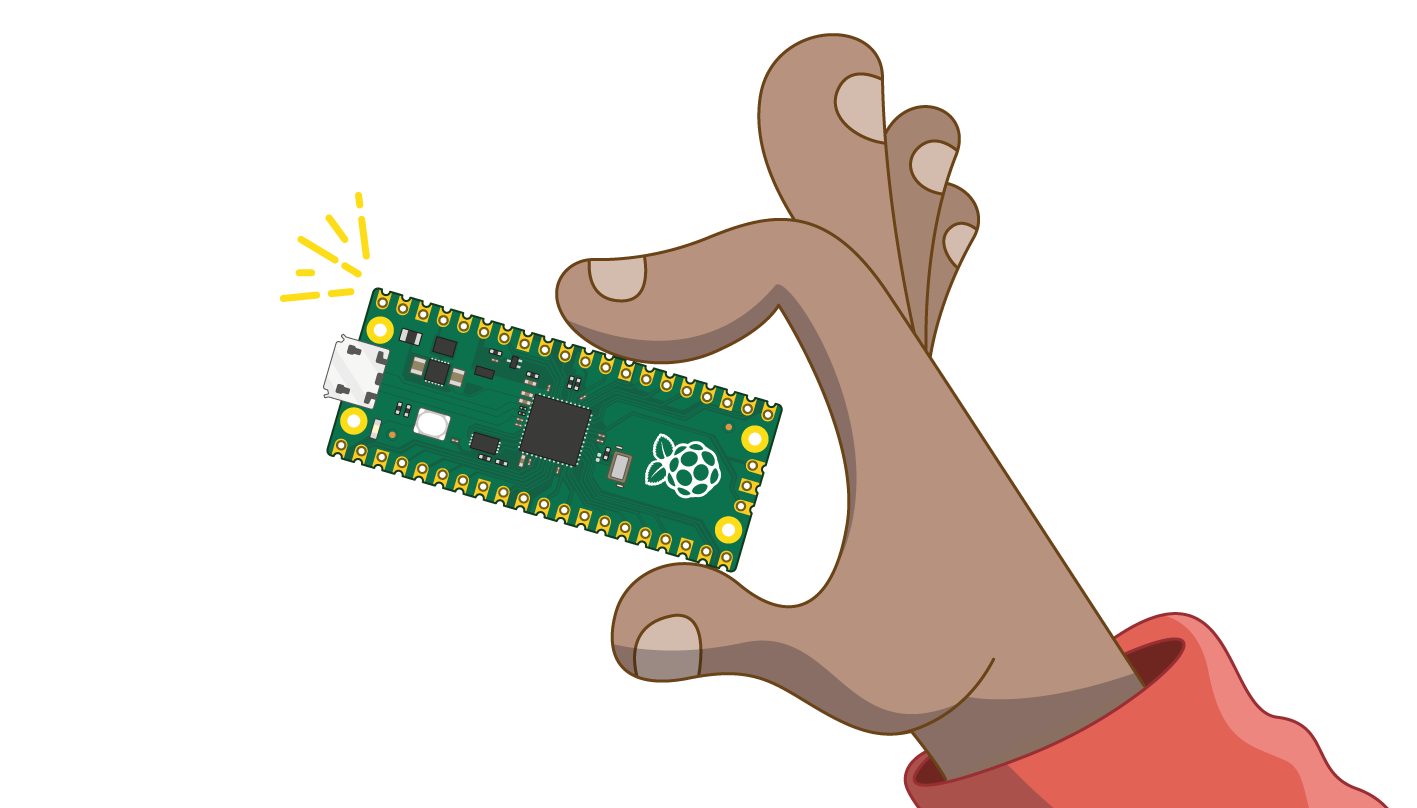
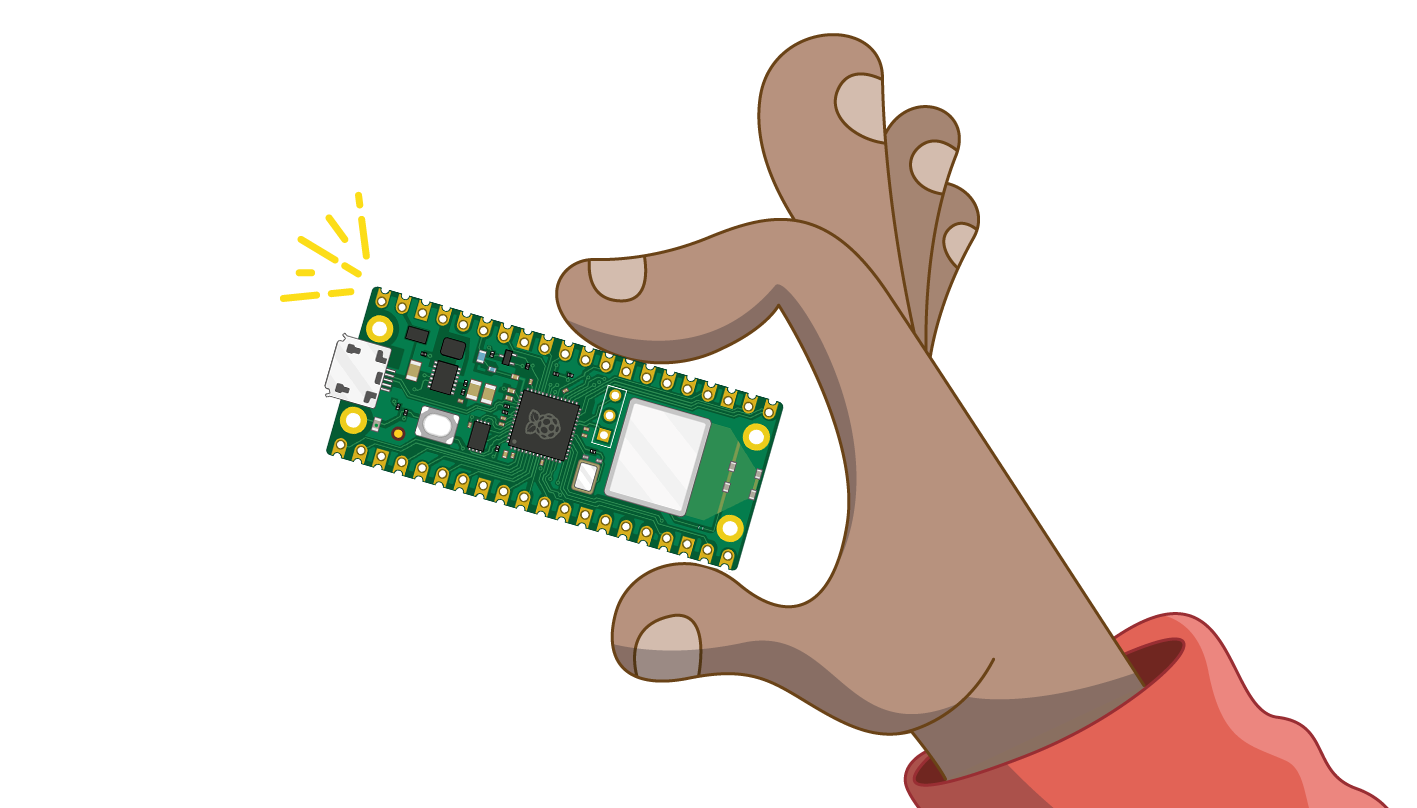
update graphics and solution

Changed region(s): [[0.2174, 0.3403, 0.5589, 0.7116]]

diff --git a/en/solutions/web_server.py b/en/solutions/web_server.py
@@ -1,0 +1,84 @@
+import network
+import socket
+from time import sleep
+from picozero import pico_temp_sensor, pico_led
+import machine
+
+
+ssid = 'Client Limit Exceeded'
+password = 'yCAvoAu5Qh'
+
+
+def connect():
+    #Connect to WLAN
+    wlan = network.WLAN(network.STA_IF)
+    wlan.active(True)
+    wlan.connect(ssid, password)
+    while wlan.isconnected() == False:
+        print('Waiting for connection...')
+        sleep(1)
+    ip = wlan.ifconfig()[0]
+    print(f'Connected on {ip}')
+    return ip
+    
+
+def open_socket(ip):
+    # Open a socket
+    address = (ip, 80)
+    connection = socket.socket()
+    connection.bind(address)
+    connection.listen(1)
+    return connection
+
+
+def webpage(temperature, state):
+    #Template HTML
+    html = f"""
+            <!DOCTYPE html>
+            <html>
+            <form action="./lighton">
+            <input type="submit" value="Light on" />
+            </form>
+            <form action="./lightoff">
+            <input type="submit" value="Light off" />
+            </form>
+            <p>LED is {state}</p>
+            <p>Temperature is {temperature}</p>
+            </body>
+            </html>
+            """
+    return str(html)
+
+
+def serve(connection):
+    #Start a webserver
+    state = 'OFF'
+    pico_led.off()
+    while True:
+        client = connection.accept()[0]
+        request = client.recv(1024)
+        request = str(request)
+        try:
+            request = request.split()[1]
+        except IndexError:
+            pass
+        if request == '/lighton?':
+            #led.on()
+            pico_led.on()
+            state = 'ON'
+        elif request =='/lightoff?':
+            pico_led.off()
+            #led.off()
+            state = 'OFF'
+        temperature = pico_temp_sensor.temp
+        html = webpage(temperature, state)
+        client.send(html)
+        client.close()
+
+
+try:
+    ip = connect()
+    connection = open_socket(ip)
+    serve(connection)
+except KeyboardInterrupt:
+    machine.reset()
